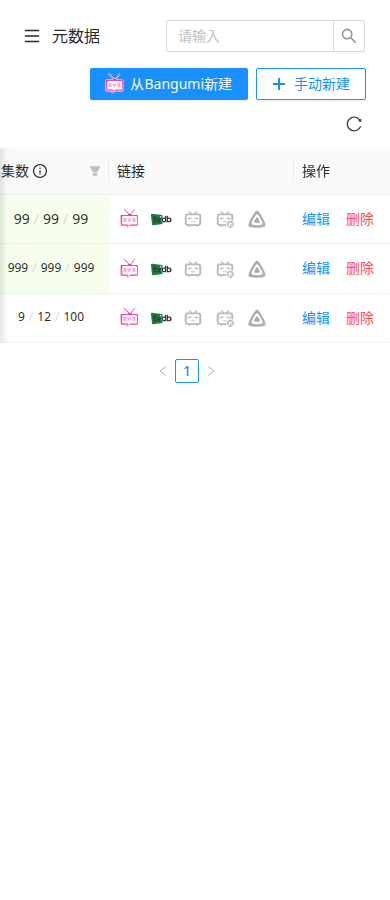
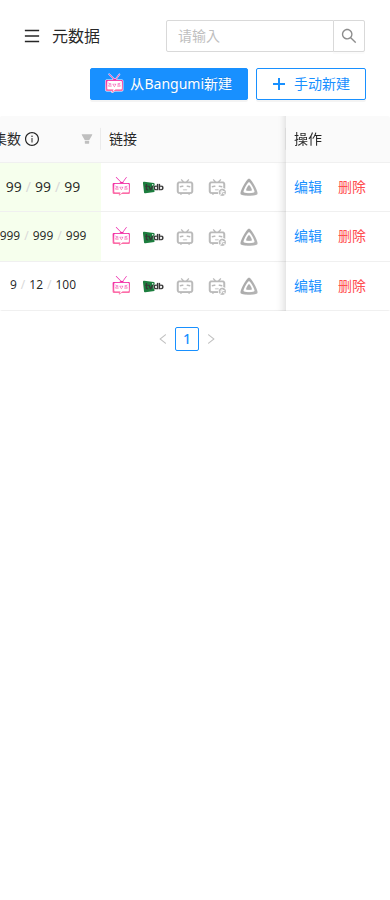
fix(admin): 增加固定列留白并隐藏移动端刷新按钮

diff --git a/apps/admin/src/pages/seasons/index.tsx b/apps/admin/src/pages/seasons/index.tsx
@@ -223,7 +223,7 @@ function useColumns({
         {
           title: '季度',
           dataIndex: 'yearAndSemester',
-          width: 88,
+          width: 96,
           className: tableStyles.compactCell,
           search: false,
           render: (_, r) =>
@@ -246,7 +246,7 @@ function useColumns({
         {
           title: '首播时间',
           dataIndex: 'firstAired',
-          width: 104,
+          width: 112,
           className: tableStyles.compactCell,
           search: false,
           render: (_, r) => {
@@ -275,7 +275,7 @@ function useColumns({
               status: 'Default',
             },
           },
-          width: 100,
+          width: 108,
           className: tableStyles.compactCell,
           filters: true,
           stateKey: {
@@ -310,7 +310,7 @@ function useColumns({
           title: '最新集',
           tooltip: '季度最新一集的下载状态',
           key: 'latestEpisode',
-          width: 118,
+          width: 126,
           className: clsx(tableStyles.compactCell, styles.latestEpisodeCell),
           render: (_, r) => (
             <SeasonStatusTag
@@ -455,7 +455,7 @@ function useColumns({
             </Popconfirm>,
           ],
           search: false,
-          width: 96,
+          width: 104,
           className: tableStyles.compactCell,
           fixed: 'right',
         },
@@ -818,7 +818,7 @@ export default withAntdSearch(function MetadataPage() {
         search={false}
         defaultSize={mobile ? 'middle' : 'large'}
         scroll={{
-          x: 1400,
+          x: 1440,
           // 工具栏 64 + 表头 55 + 分页及外边距 64 + 卡片底部 padding 24。
           y: mobile ? undefined : 'calc(100vh - 207px)',
           scrollToFirstRowOnChange: true,

diff --git a/apps/admin/src/components/MainTable/index.tsx b/apps/admin/src/components/MainTable/index.tsx
@@ -1,3 +1,4 @@
+import useMobile from '@/utils/useMobile';
 import ProTable, { ProTableProps } from '@ant-design/pro-table';
 
 // 首页列表的列配置与行密度由页面决定。
@@ -5,6 +6,8 @@ export default function MainTable<RowType extends object>({
   options,
   ...props
 }: ProTableProps<RowType, Record<string, unknown>>) {
+  const mobile = useMobile();
+
   return (
     <ProTable<RowType>
       {...props}
@@ -13,6 +16,7 @@ export default function MainTable<RowType extends object>({
         ...options,
         density: false,
         setting: false,
+        reload: !mobile,
       }}
     />
   );

diff --git a/apps/admin/src/pages/folders/index.tsx b/apps/admin/src/pages/folders/index.tsx
@@ -180,7 +180,7 @@ function useColumns(action: MutableRefObject<ActionType | undefined>) {
             </Typography.Link>,
           ],
           search: false,
-          width: 168,
+          width: 176,
           className: tableStyles.compactCell,
           fixed: 'right',
         },
@@ -233,7 +233,7 @@ function FoldersPage() {
       {...props}
       headerTitle={<TableTitle>媒体库管理</TableTitle>}
       search={false}
-      scroll={{ x: 1536 }}
+      scroll={{ x: 1544 }}
       toolBarRender={() => [
         <AsyncButton
           key={0}

diff --git a/apps/admin/src/pages/torrents/index.tsx b/apps/admin/src/pages/torrents/index.tsx
@@ -268,7 +268,7 @@ function useColumns() {
               </Typography.Link>
             </Space>
           ),
-          width: 80,
+          width: 88,
           className: tableStyles.compactCell,
           fixed: 'right',
         },
@@ -470,7 +470,7 @@ export default withAntdSearch(function Torrents() {
         search={false}
         className={styles.root}
         scroll={{
-          x: mobile ? 1478 : 1578,
+          x: mobile ? 1486 : 1586,
         }}
       />
     </>

diff --git a/apps/admin/src/pages/jobs/index.tsx b/apps/admin/src/pages/jobs/index.tsx
@@ -124,7 +124,7 @@ function useColumns({
             详情
           </Typography.Link>,
         ],
-        width: 52,
+        width: 60,
         className: tableStyles.compactCell,
         fixed: 'right',
       },
@@ -227,7 +227,7 @@ export default function JobsPage() {
         defaultSize="middle"
         className={styles.root}
         scroll={{
-          x: 1334,
+          x: 1342,
         }}
       />
       {episodeDetailsDiglog}
